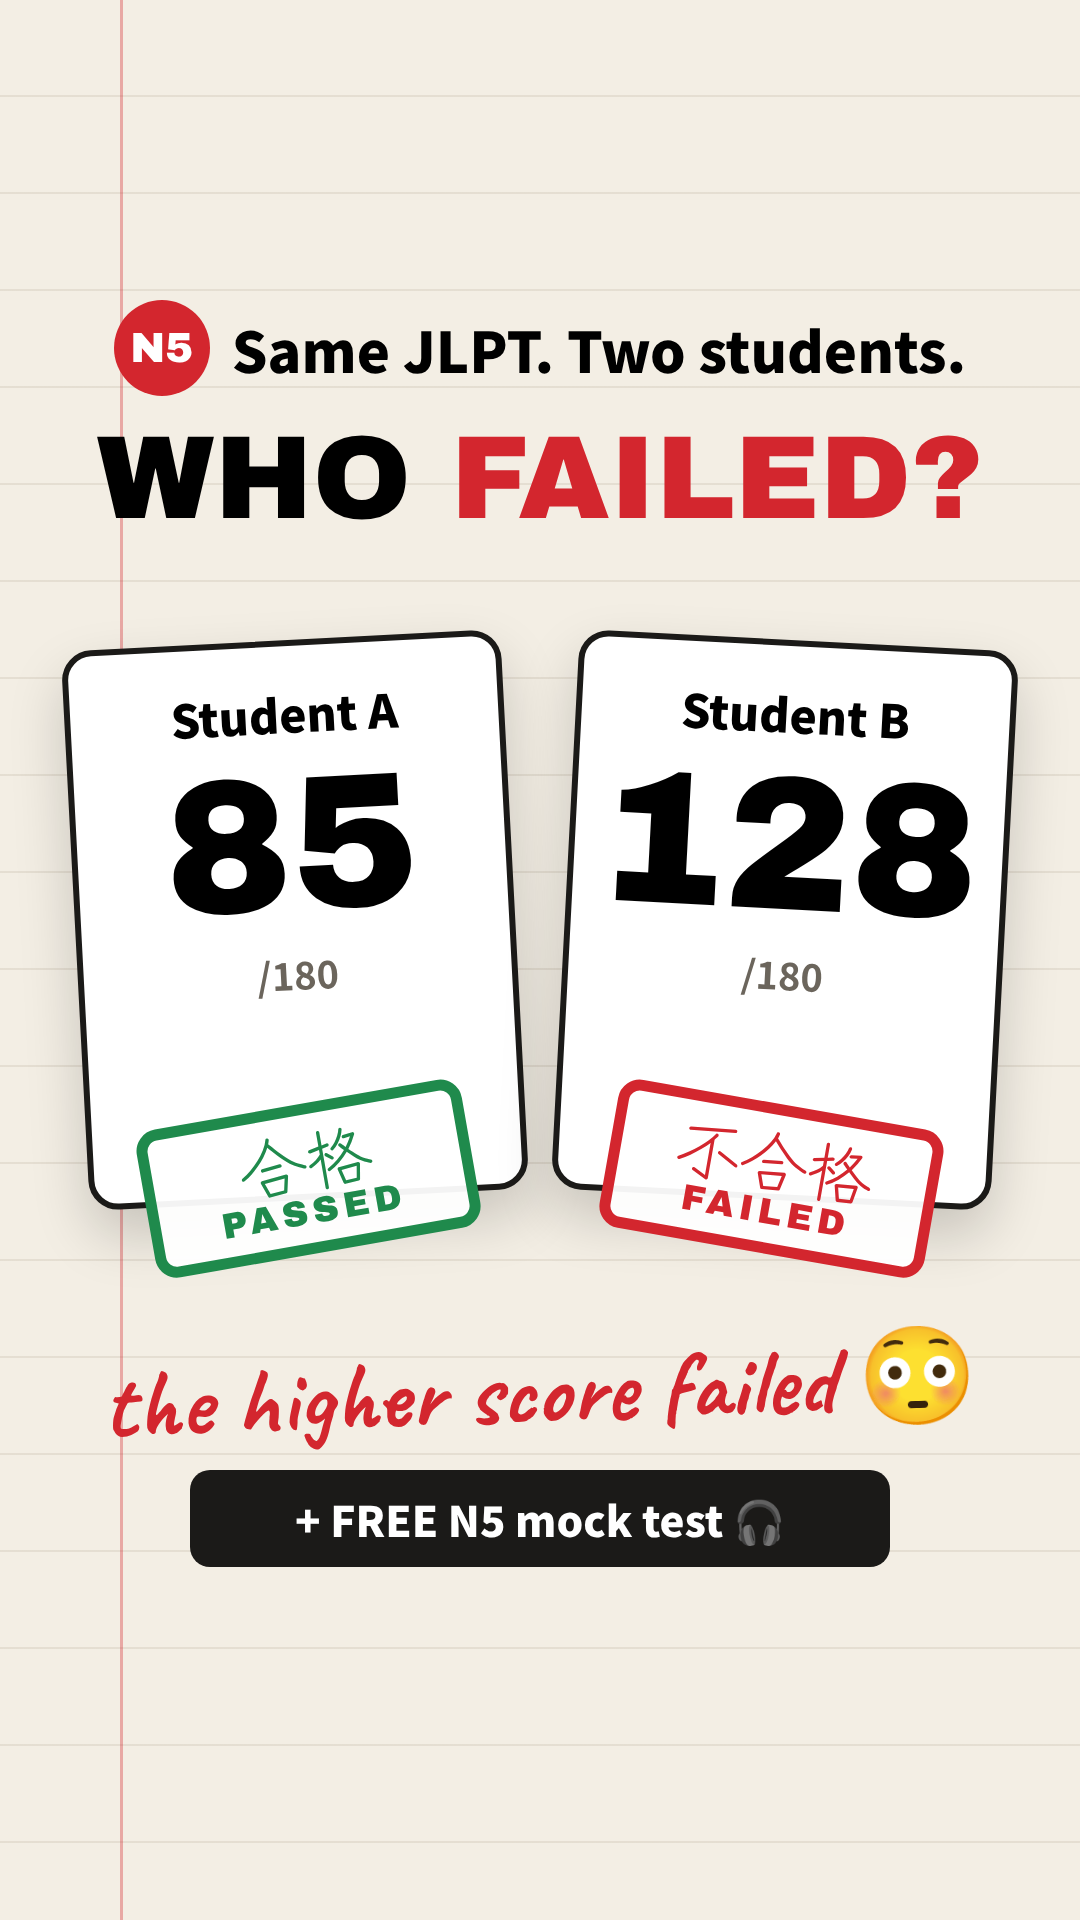
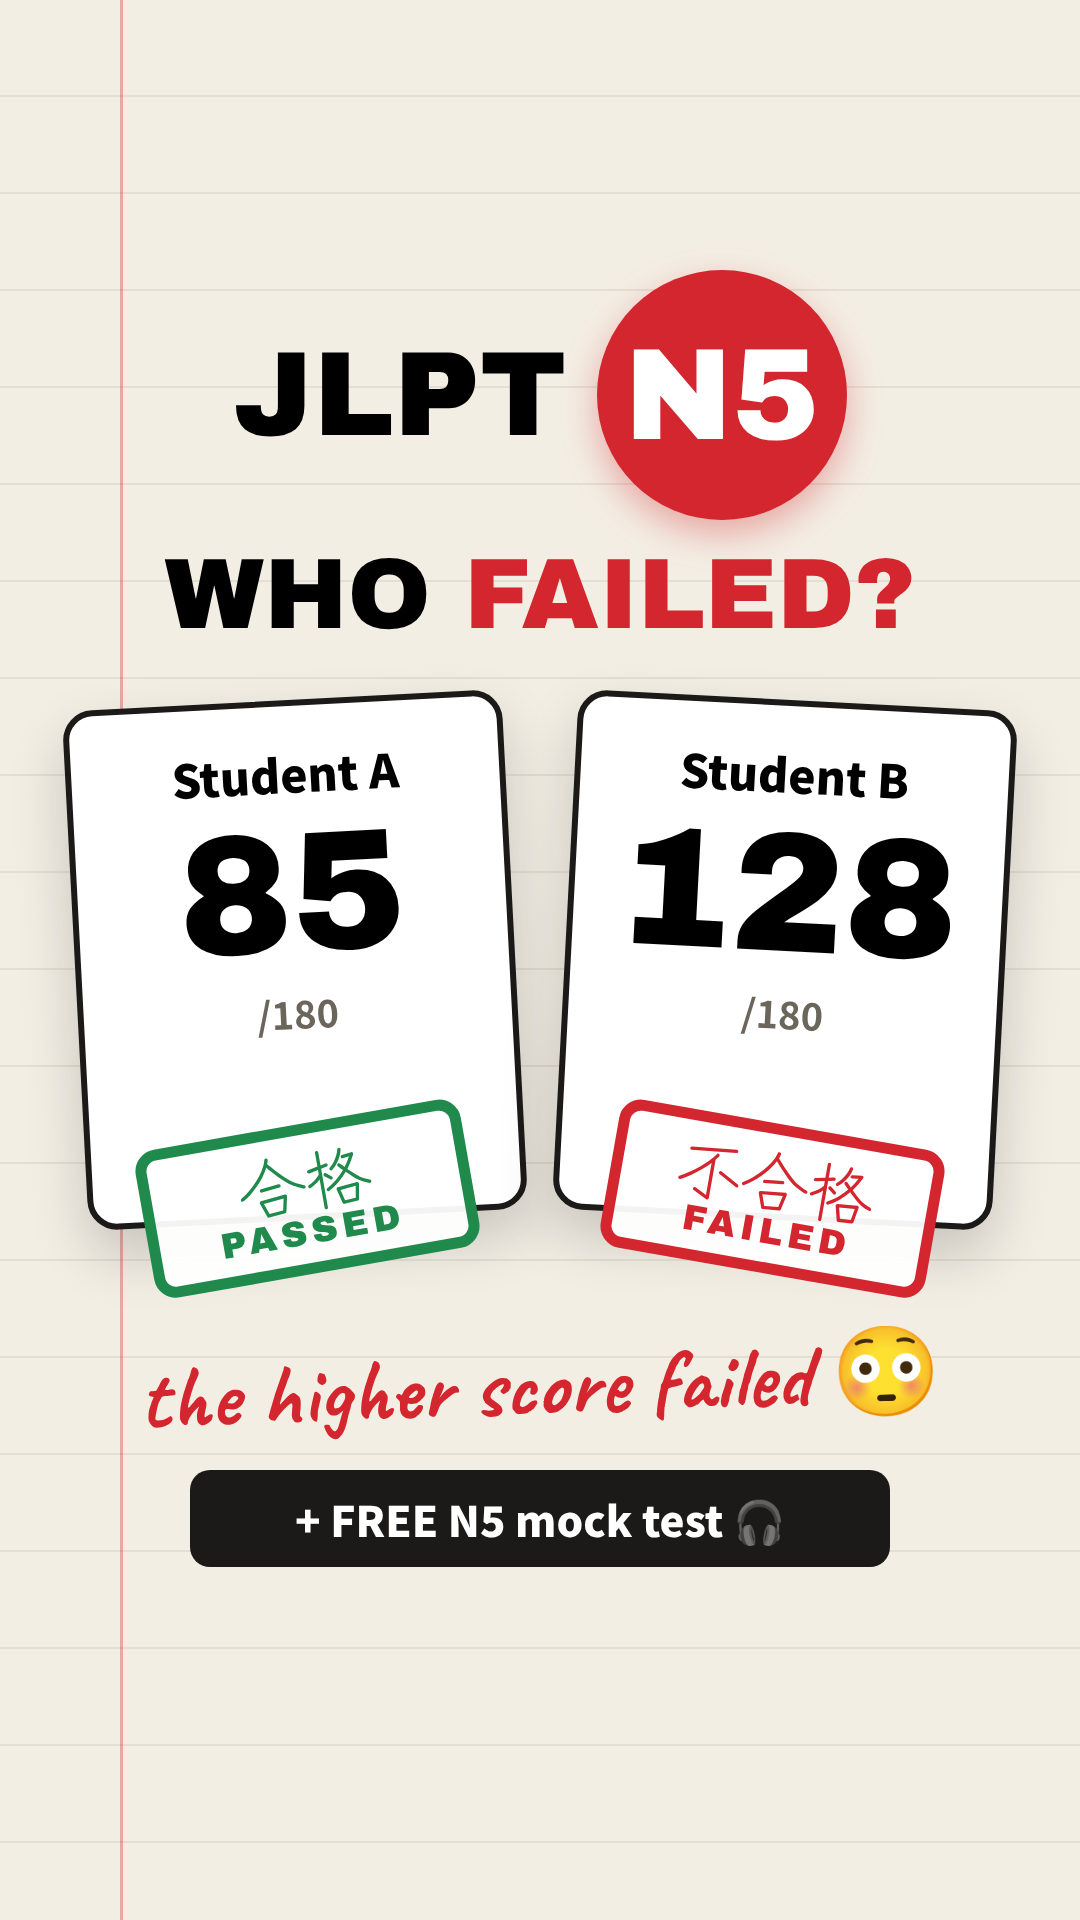
Cover: big JLPT N5 badge
Claude-Session: https://claude.ai/code/session_01EaoD2uAGWmKnrxvvdunxK2

Changed region(s): [[0.0611, 0.125, 0.9472, 0.75]]

diff --git a/instagram/reels/n5-passing-strategy/cover2.html b/instagram/reels/n5-passing-strategy/cover2.html
@@ -11,24 +11,24 @@
 body{width:1080px;height:1920px;overflow:hidden;font-family:NotoJP,'Noto Color Emoji',sans-serif;background:var(--paper);position:relative}
 .rules{position:absolute;inset:0;background-image:repeating-linear-gradient(to bottom,transparent 0 95px,#D9D1C3 95px 97px);opacity:.55}
 .margin{position:absolute;top:0;bottom:0;left:120px;width:3px;background:rgba(211,38,46,.35)}
-.card{position:absolute;top:640px;width:440px;height:560px;background:#fff;border:6px solid var(--ink);border-radius:30px;text-align:center;padding-top:34px;box-shadow:0 26px 56px rgba(0,0,0,.18)}
+.card{position:absolute;top:700px;width:440px;height:520px;background:#fff;border:6px solid var(--ink);border-radius:30px;text-align:center;padding-top:34px;box-shadow:0 26px 56px rgba(0,0,0,.18)}
 .card .nm{font-weight:900;font-size:46px}
-.card .sc{font-family:Archivo;font-size:190px;line-height:1.05}
+.card .sc{font-family:Archivo;font-size:170px;line-height:1.05}
 .card .of{font-weight:700;font-size:38px;color:var(--soft)}
 .st{position:absolute;left:50%;bottom:-60px;width:330px;height:150px;margin-left:-165px;border:11px solid;border-radius:22px;background:rgba(255,255,255,.95);display:flex;flex-direction:column;align-items:center;justify-content:center}
 .st .j{font-family:Kure;font-size:66px;line-height:1}
 .st .e{font-family:Archivo;font-size:36px;letter-spacing:5px}
 </style></head><body>
 <div class="rules"></div><div class="margin"></div>
-<div style="position:absolute;top:300px;left:0;right:0;text-align:center;display:flex;justify-content:center;align-items:center;gap:22px">
-  <div style="width:96px;height:96px;border-radius:50%;background:var(--red);color:#fff;display:flex;align-items:center;justify-content:center;font-family:Archivo;font-size:42px">N5</div>
-  <div style="font-weight:900;font-size:56px">Same JLPT. Two students.</div>
+<div style="position:absolute;top:270px;left:0;right:0;display:flex;justify-content:center;align-items:center;gap:30px">
+  <div style="font-family:Archivo;font-size:120px;line-height:1">JLPT</div>
+  <div style="width:250px;height:250px;border-radius:50%;background:var(--red);color:#fff;display:flex;align-items:center;justify-content:center;font-family:Archivo;font-size:130px;box-shadow:0 14px 34px rgba(211,38,46,.35)">N5</div>
 </div>
-<div style="position:absolute;top:420px;left:0;right:0;text-align:center;font-family:Archivo;font-size:118px;line-height:1">WHO <span style="color:var(--red)">FAILED?</span></div>
+<div style="position:absolute;top:545px;left:0;right:0;text-align:center;font-family:Archivo;font-size:100px;line-height:1">WHO <span style="color:var(--red)">FAILED?</span></div>
 <div class="card" style="left:75px;transform:rotate(-3deg)"><div class="nm">Student A</div><div class="sc">85</div><div class="of">/180</div>
   <div class="st" style="border-color:var(--green);color:var(--green);transform:rotate(-7deg)"><div class="j">合格</div><div class="e">PASSED</div></div></div>
 <div class="card" style="right:75px;transform:rotate(3deg)"><div class="nm">Student B</div><div class="sc">128</div><div class="of">/180</div>
   <div class="st" style="border-color:var(--red);color:var(--red);transform:rotate(7deg)"><div class="j">不合格</div><div class="e">FAILED</div></div></div>
-<div style="position:absolute;top:1330px;left:0;right:0;text-align:center;font-family:Caveat;font-size:96px;color:var(--red);transform:rotate(-2deg)">the higher score failed 😳</div>
+<div style="position:absolute;top:1330px;left:0;right:0;text-align:center;font-family:Caveat;font-size:88px;color:var(--red);transform:rotate(-2deg)">the higher score failed 😳</div>
 <div style="position:absolute;top:1470px;left:190px;right:190px;background:var(--ink);color:#fff;border-radius:20px;padding:18px;text-align:center;font-weight:900;font-size:42px">+ FREE N5 mock test 🎧</div>
 </body></html>
